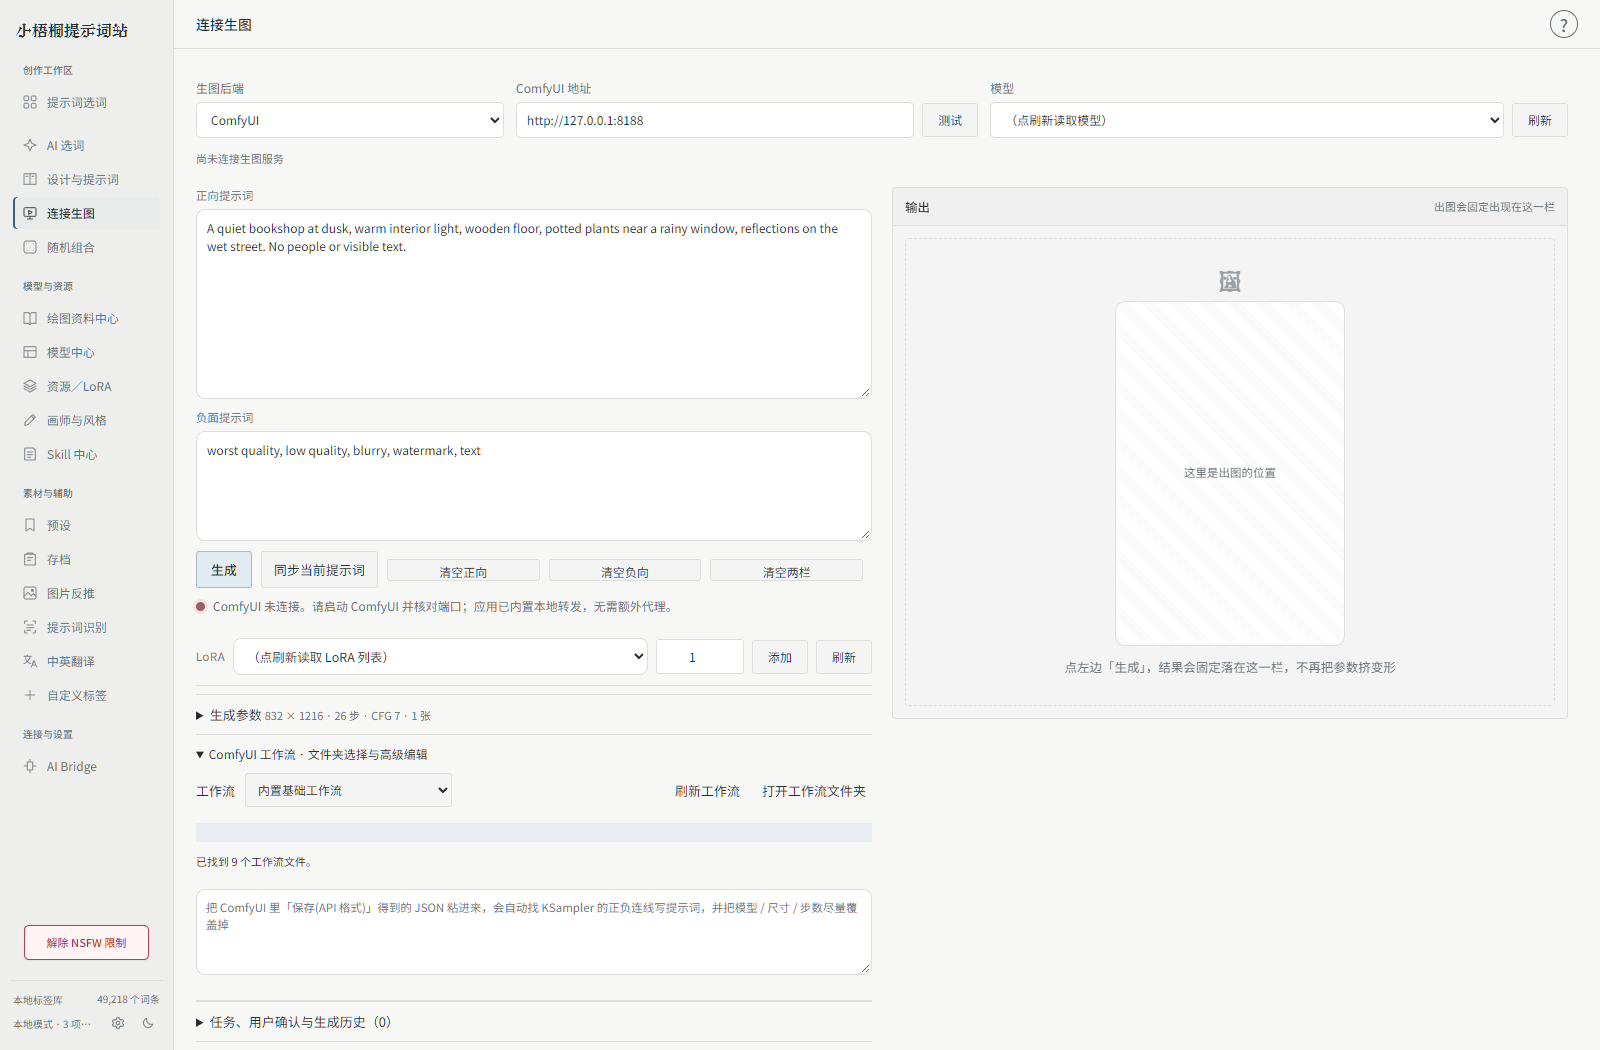
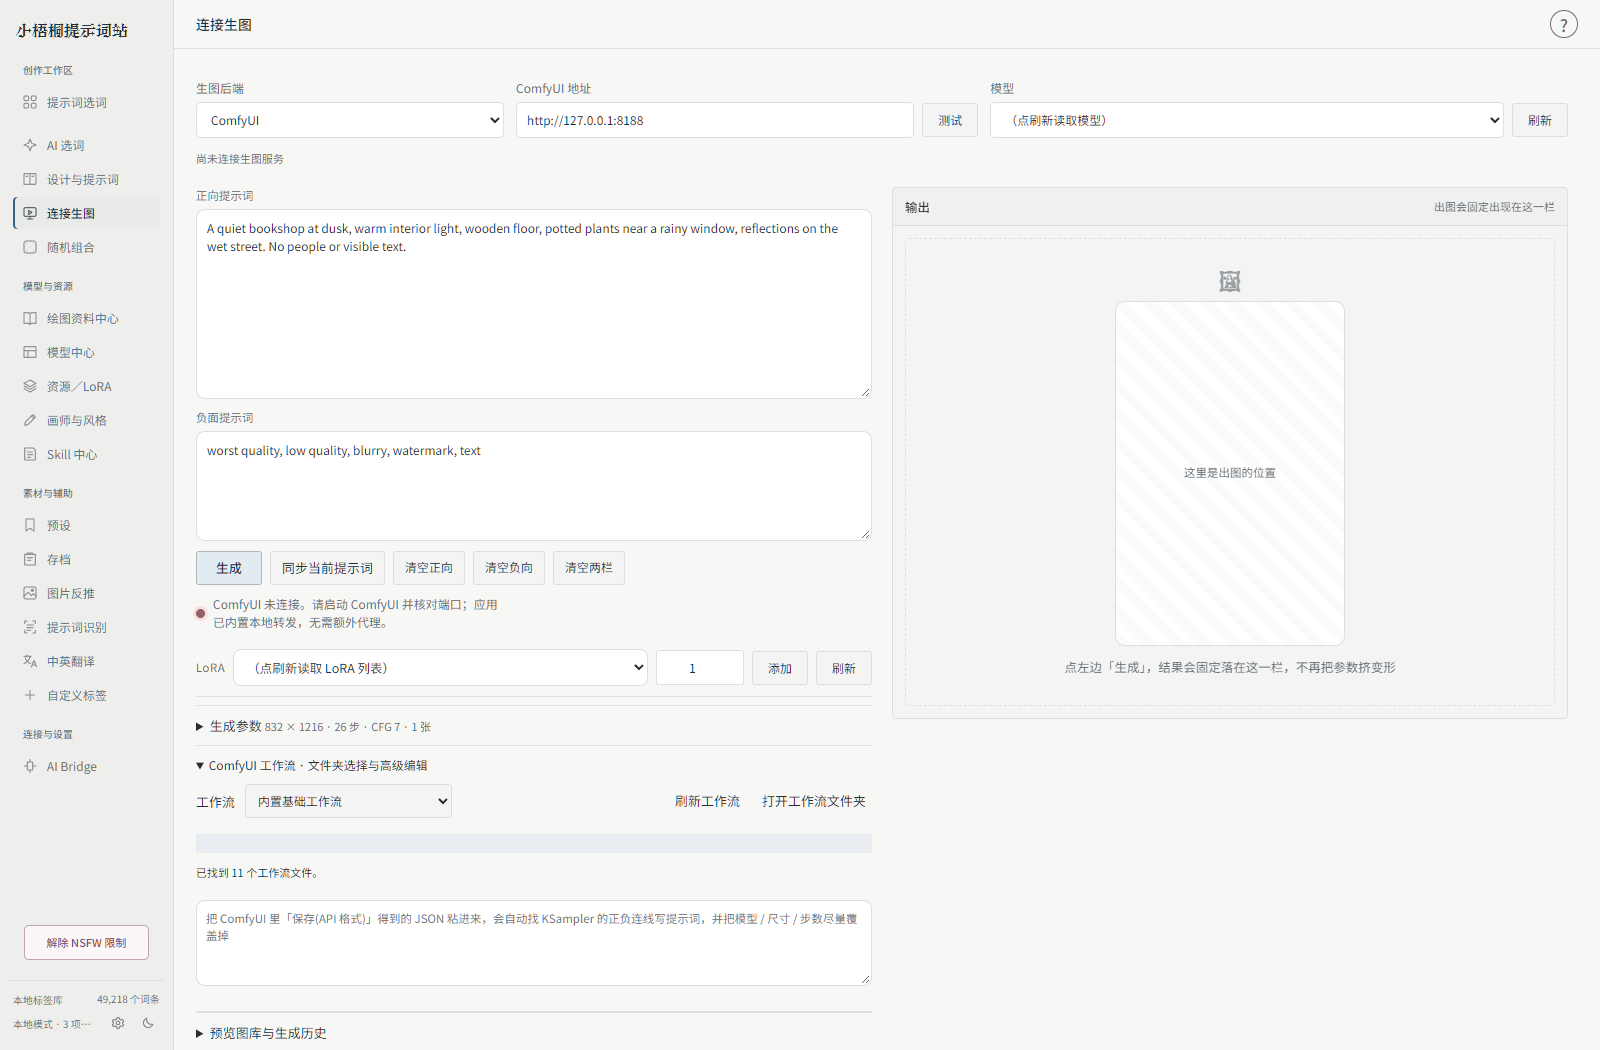
Release 0.2.4 realtime progress, image gallery, clipboard and UI performance

diff --git a/docs/MODELS_AND_GENERATION.md b/docs/MODELS_AND_GENERATION.md
@@ -62,7 +62,13 @@ API 格式可直接载入。常规 UI 格式会读取已连接 ComfyUI 的节点
 
 ## 进度与耗时
 
-生图页常驻显示当前任务阶段、采样进度和耗时。NeoForge 使用本次任务的内部进度；ComfyUI 通过独立 clientId 接收节点与采样事件，显示的是当前采样节点的步数，不把多阶段工作流冒充为单一总进度。NovelAI 等接口未返回逐步百分比时显示等待与耗时，不伪造数字。
+生成按钮下方以紧凑一行显示当前任务阶段、采样进度和耗时，结束后自动收起，保留本次总耗时。NeoForge 使用本次任务的内部进度；ComfyUI 通过独立 clientId 和本机事件流接收新版节点与采样事件，显示的是当前采样节点的步数，不把多阶段工作流冒充为单一总进度。NovelAI 等接口未返回逐步百分比时显示静止的等待状态与耗时，不伪造数字或显示来回摆动的进度。
+
+## 图片复制与图库
+
+右侧结果下方可切换图片、复制、保存与放大预览；点击图片在软件内打开图库，支持键盘左右切图、缩略图选择和原尺寸查看。Windows 桌面版使用图片剪贴板，可以直接粘贴到支持图片的应用。
+
+左侧展开「预览图库与生成历史」可按引擎、提示词查找本机历史，浏览器先载入缩略图，点击后才打开大图。每页24组，可继续载入。图库折叠或离开生图页后停止后台刷新。安全模式仍限制未确认分级的历史图片，不会删除原始文件。
 
 ## 历史与异常
 

diff --git a/CHANGELOG.md b/CHANGELOG.md
@@ -1,5 +1,9 @@
 # 更新记录
 
+## 0.2.4 · 2026年11月8日
+
+进度栏移到生成按钮下方，接入 ComfyUI 实时事件流与新版节点进度，复核 NeoForge 排队、采样、高清放大和完成状态。未知进度不再来回摆动，结束后自动收起。生成结果新增图片复制、保存、多图切换、原尺寸预览和历史缩略图库。历史分页并按需刷新，任务摘要不再携带旧图片 Base64，资源页面延迟读取，减少后台请求和重绘。新增轻量过渡、减少动态效果支持，并调整窄窗口排版及按钮文字对比。内容模式入口改为柔和底色和细边框，继续区分开启、悬停和不可用状态。AI 提示词文本及模型规则保持原样。
+
 ## 0.2.3 · 2026年11月8日
 
 外部 Agent 可按资源 ID 配置底模、多 LoRA、独立权重和工作流，并确认自己的已授权请求。新增首次资源路径向导、常见目录发现、原生文件夹选择、LoRA 自定义分类与版本检查。工作流改为文件夹选择，支持读取常规界面格式。各页面增加可读取的功能帮助；操作增加状态反馈，生图增加常驻采样进度与耗时。NSFW 入口改为醒目红色，AI 内容按钮提供明确按下状态。本轮保持现有 AI 提示词文本及模型规则。

diff --git a/docs/FAQ.md b/docs/FAQ.md
@@ -78,3 +78,12 @@ WD14 是看图预测标签，不能替代文件中的原始生成元数据。软
 ### UI 格式工作流为什么仍要求导出 API？
 
 普通 UI 图可以结合运行中的 ComfyUI 节点定义转换；旁路、Primitive、复杂插槽和未知前端语义不能可靠推断时，会明确要求 API 格式，避免看似载入成功却改变实际绘图含义。
+
+
+### 进度显示的是整段工作流还是当前采样节点？
+
+NeoForge 使用本次任务接口返回的进度。ComfyUI 的节点耗时各不相同，因此显示当前节点实际步数和百分比，不用节点数量拼成虚假的总进度。模型载入、解码和保存时可能没有逐步百分比；这些阶段显示等待，最终接收图片后自动收起。
+
+### 旧图片多了以后，图库会一直在后台刷新吗？
+
+不会。0.2.4 改为分页缩略图，折叠时停止读取。任务面板使用轻量摘要；历史记录和原图保留在本机，不靠删除旧数据来加速。
